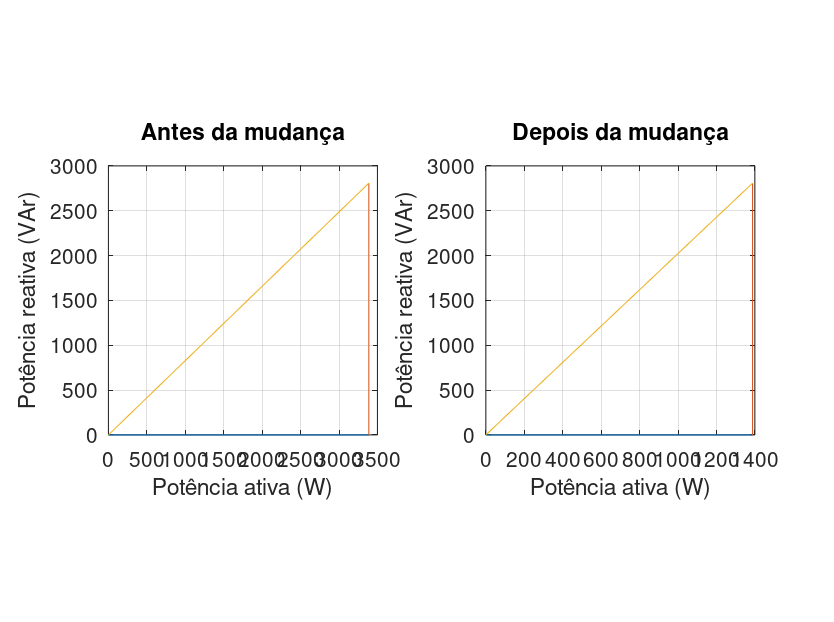
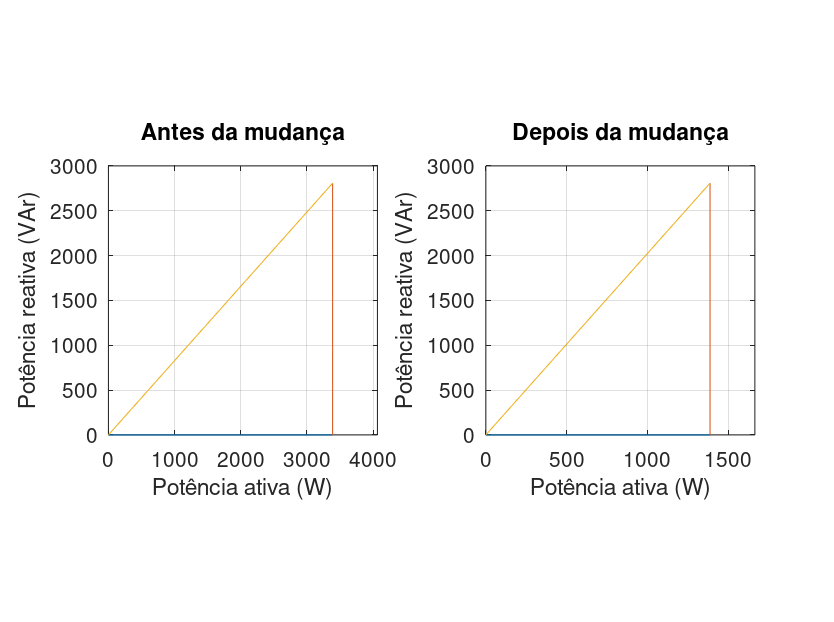
Imagem dos triângulos das potências
Alteração no código da plotagem dos triângulos das potências. As legendas estavam sobrepostas anteriormente

diff --git a/codigo.m b/codigo.m
@@ -77,6 +77,7 @@ subplot(1, 2, 1)
 plot([0 P], [0 0], [P P], [0 Q], [0 P], [0 Q])
 xlabel('Potência ativa (W)')
 ylabel('Potência reativa (VAr)')
+xlim([0 P+(P/5)])
 axis('square')
 title('Antes da mudança')
 grid;  
@@ -85,6 +86,7 @@ subplot(1, 2, 2)
 plot([0 P2], [0 0], [P2 P2], [0 Q2], [0 P2], [0 Q2])
 xlabel('Potência ativa (W)')
 ylabel('Potência reativa (VAr)')
+xlim([0 P2+(P2/5)])
 axis('square')
 title('Depois da mudança')
-grid;   
+grid;  
